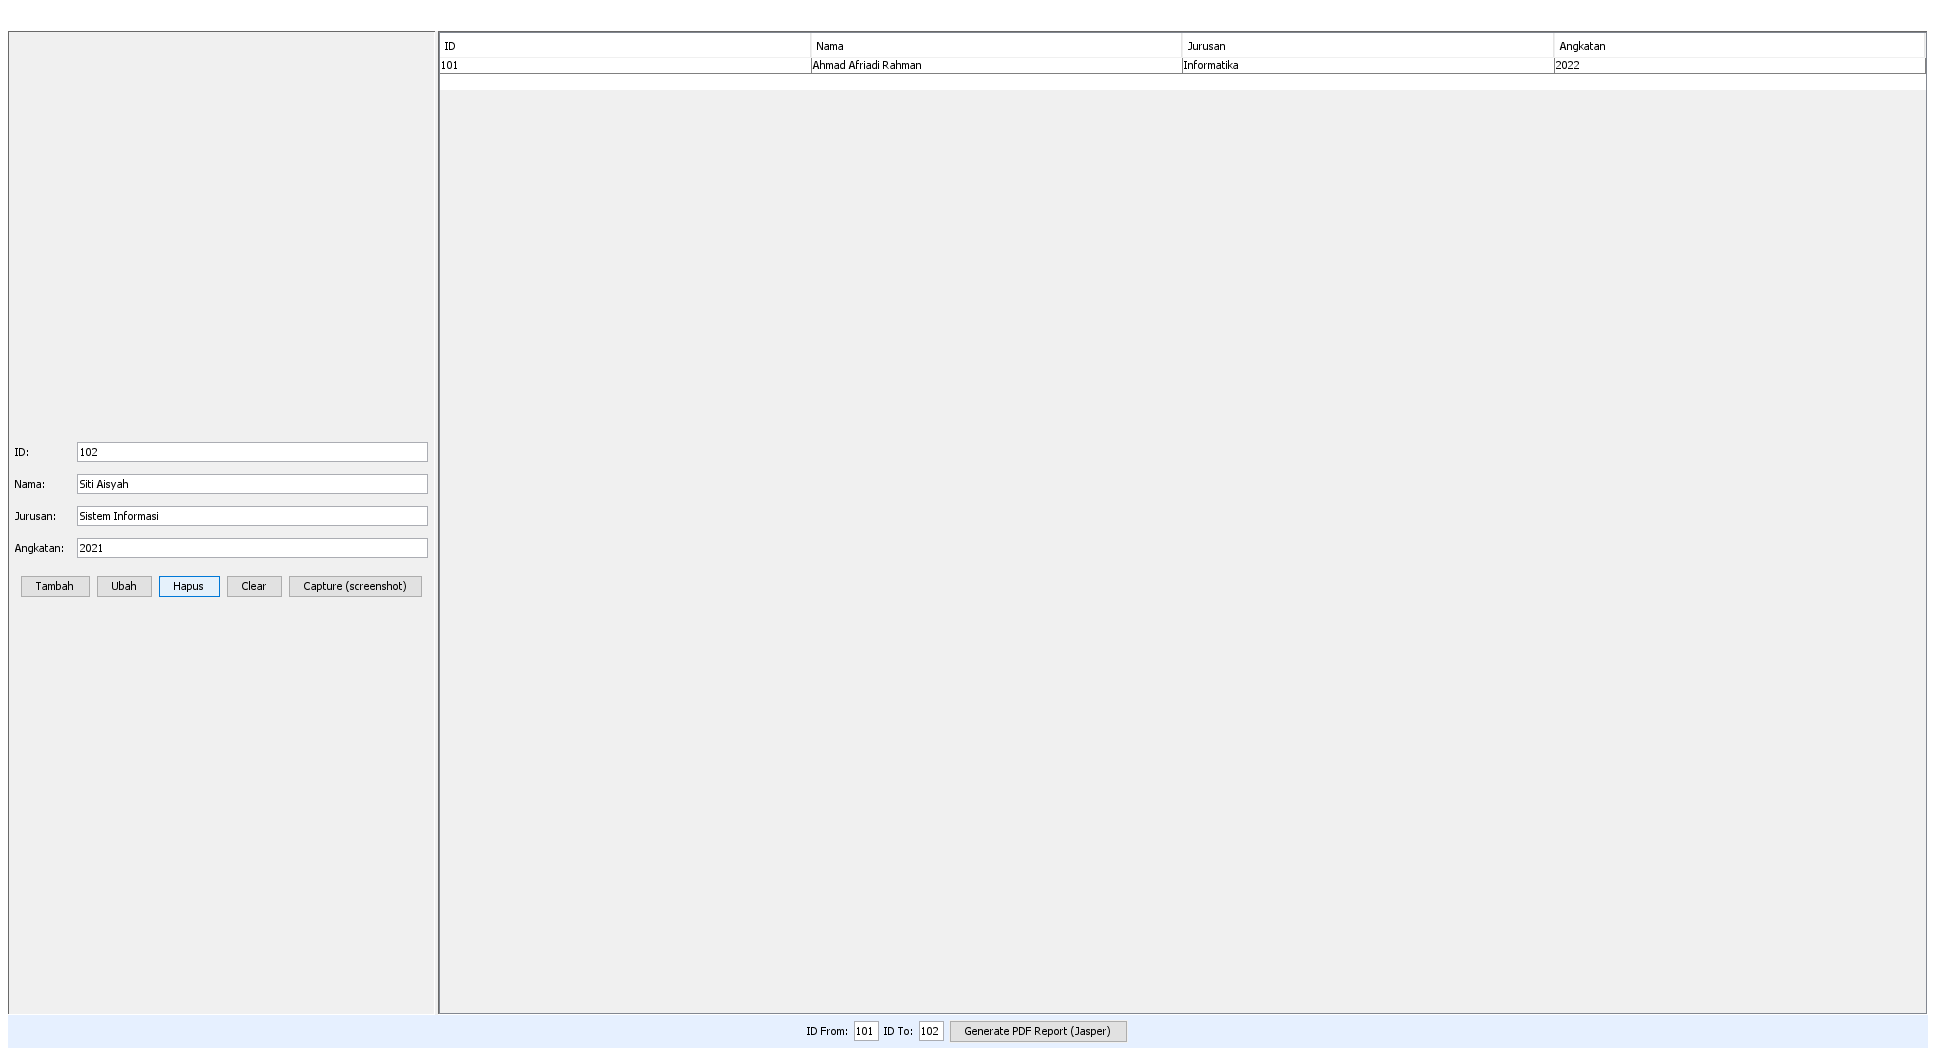
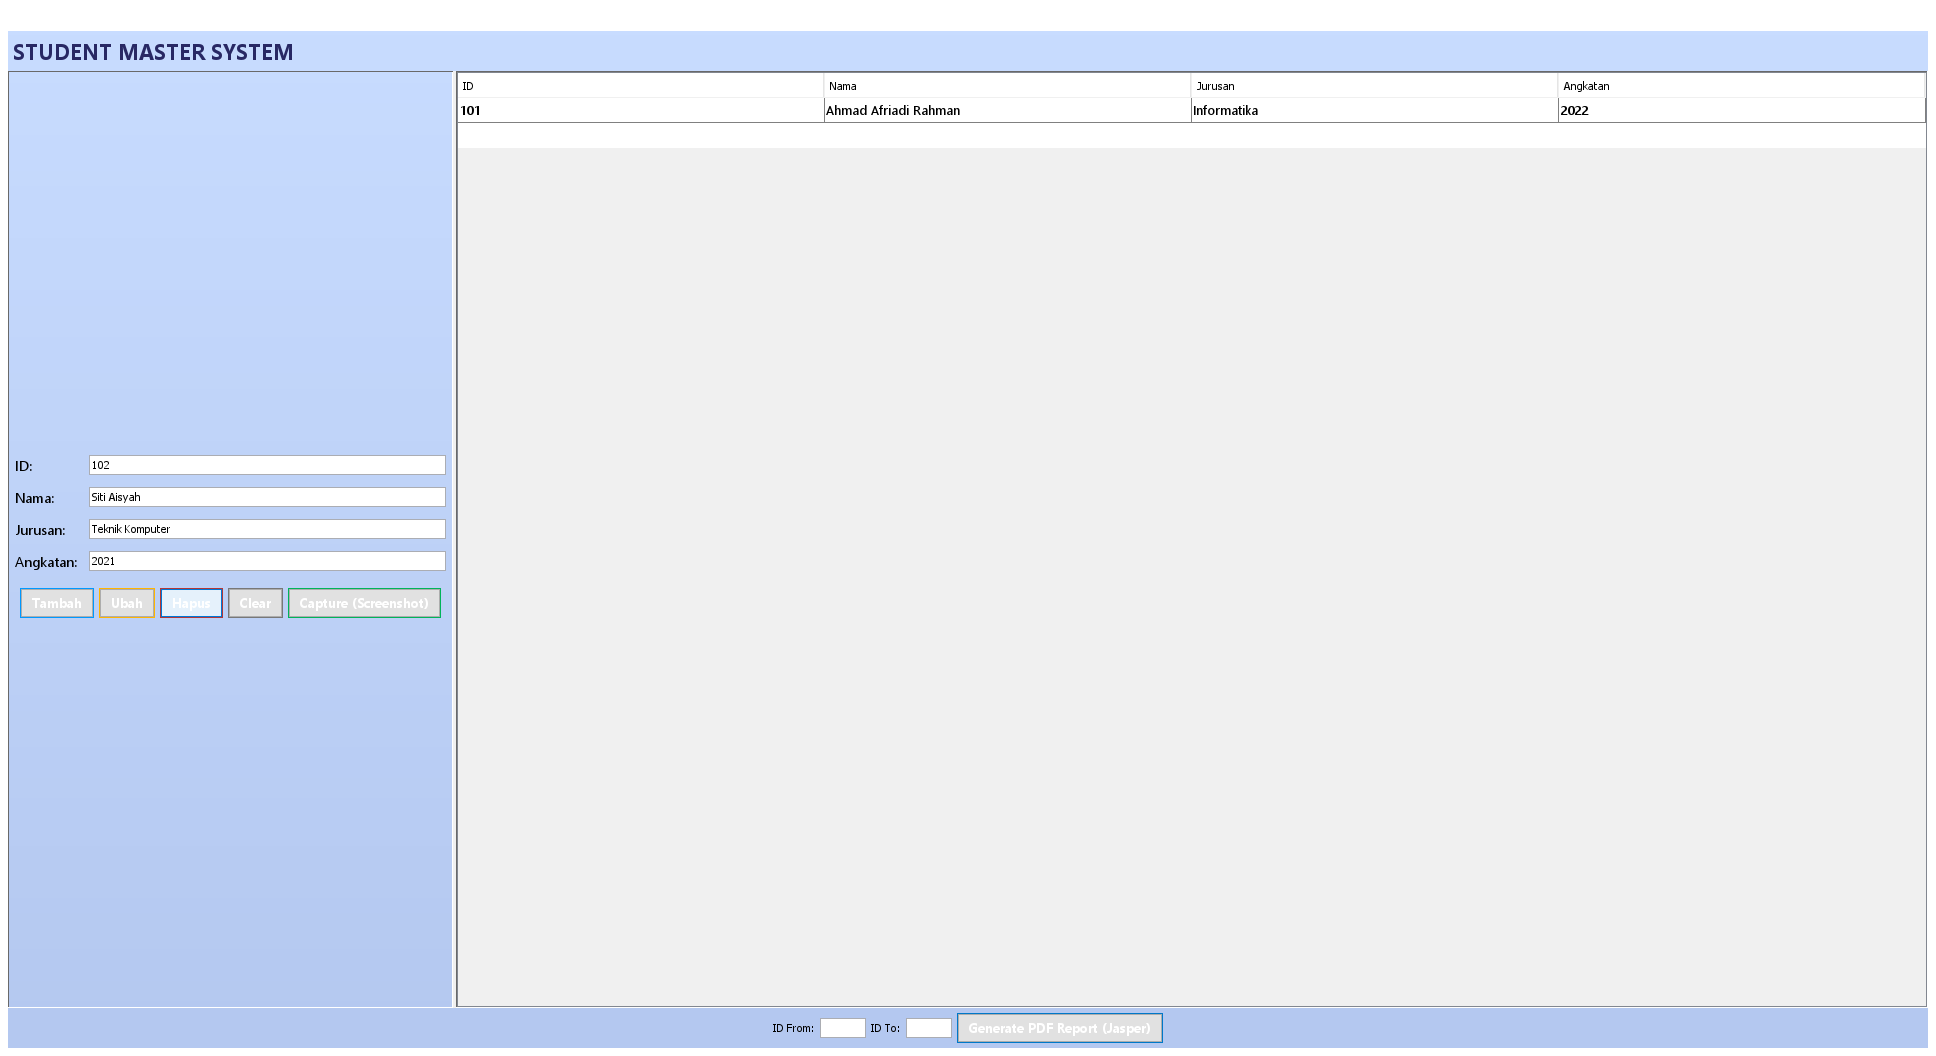
Code Update

Changed region(s): [[0.0, 0.0312, 1.0, 1.0]]

diff --git a/src/view/MainForm.java b/src/view/MainForm.java
@@ -11,7 +11,6 @@ import java.awt.*;
 import java.awt.event.*;
 import java.awt.image.BufferedImage;
 import java.io.File;
-import java.io.FileInputStream;
 import java.io.InputStream;
 import java.sql.SQLException;
 import java.util.List;
@@ -28,41 +27,27 @@ public class MainForm extends JFrame {
     private JTable table;
     private DefaultTableModel tableModel;
 
-    private JTextField tfIdFrom = new JTextField();
-    private JTextField tfIdTo = new JTextField();
+    private JTextField tfIdFrom = new JTextField(5);
+    private JTextField tfIdTo = new JTextField(5);
 
     private JPanel mainPanel;
 
     public MainForm() {
         setTitle("Student Master - UAS PBO");
         setDefaultCloseOperation(JFrame.EXIT_ON_CLOSE);
-        setSize(900, 600);
+        setSize(950, 600);
         setLocationRelativeTo(null);
 
+        // 🌈 Panel utama dengan gradasi
         mainPanel = new JPanel(new BorderLayout()) {
-            private BufferedImage bg;
-            {
-                try {
-                    bg = ImageIO.read(getClass().getResource("/report/logo.png")); // small logo as background example
-                } catch (Exception e) {
-                    bg = null;
-                }
-            }
             @Override
             protected void paintComponent(Graphics g) {
                 super.paintComponent(g);
-                if (bg != null) {
-                    // tile the background image
-                    for (int x = 0; x < getWidth(); x += bg.getWidth()) {
-                        for (int y = 0; y < getHeight(); y += bg.getHeight()) {
-                            g.drawImage(bg, x, y, this);
-                        }
-                    }
-                } else {
-                    // fallback background color
-                    g.setColor(new Color(230, 240, 255));
-                    g.fillRect(0, 0, getWidth(), getHeight());
-                }
+                Graphics2D g2d = (Graphics2D) g;
+                GradientPaint gp = new GradientPaint(0, 0, new Color(200, 220, 255),
+                        0, getHeight(), new Color(180, 200, 240));
+                g2d.setPaint(gp);
+                g2d.fillRect(0, 0, getWidth(), getHeight());
             }
         };
         setContentPane(mainPanel);
@@ -72,65 +57,96 @@ public class MainForm extends JFrame {
     }
 
     private void initComponents() {
+        // 🧭 Header panel (logo + judul)
+        JPanel headerPanel = new JPanel(new FlowLayout(FlowLayout.LEFT));
+        headerPanel.setOpaque(false);
+        try {
+            JLabel logo = new JLabel(new ImageIcon(getClass().getResource("/report/logo.png")));
+            headerPanel.add(logo);
+        } catch (Exception ignored) {}
+        JLabel title = new JLabel("STUDENT MASTER SYSTEM");
+        title.setFont(new Font("Segoe UI", Font.BOLD, 22));
+        title.setForeground(new Color(40, 40, 100));
+        headerPanel.add(title);
+        mainPanel.add(headerPanel, BorderLayout.NORTH);
+
+        // 📋 Form Panel
         JPanel formPanel = new JPanel(new GridBagLayout());
         formPanel.setOpaque(false);
         GridBagConstraints c = new GridBagConstraints();
-        c.insets = new Insets(6,6,6,6);
+        c.insets = new Insets(6, 6, 6, 6);
         c.fill = GridBagConstraints.HORIZONTAL;
 
-        c.gridx = 0; c.gridy = 0; formPanel.add(new JLabel("ID:"), c);
+        JLabel lblId = new JLabel("ID:");
+        JLabel lblNama = new JLabel("Nama:");
+        JLabel lblJurusan = new JLabel("Jurusan:");
+        JLabel lblAngkatan = new JLabel("Angkatan:");
+        lblId.setFont(new Font("Segoe UI", Font.PLAIN, 14));
+        lblNama.setFont(new Font("Segoe UI", Font.PLAIN, 14));
+        lblJurusan.setFont(new Font("Segoe UI", Font.PLAIN, 14));
+        lblAngkatan.setFont(new Font("Segoe UI", Font.PLAIN, 14));
+
+        c.gridx = 0; c.gridy = 0; formPanel.add(lblId, c);
         c.gridx = 1; c.gridy = 0; formPanel.add(tfId, c);
-
-        c.gridx = 0; c.gridy = 1; formPanel.add(new JLabel("Nama:"), c);
+        c.gridx = 0; c.gridy = 1; formPanel.add(lblNama, c);
         c.gridx = 1; c.gridy = 1; formPanel.add(tfNama, c);
-
-        c.gridx = 0; c.gridy = 2; formPanel.add(new JLabel("Jurusan:"), c);
+        c.gridx = 0; c.gridy = 2; formPanel.add(lblJurusan, c);
         c.gridx = 1; c.gridy = 2; formPanel.add(tfJurusan, c);
-
-        c.gridx = 0; c.gridy = 3; formPanel.add(new JLabel("Angkatan:"), c);
+        c.gridx = 0; c.gridy = 3; formPanel.add(lblAngkatan, c);
         c.gridx = 1; c.gridy = 3; formPanel.add(tfAngkatan, c);
 
-        JButton btnTambah = new JButton("Tambah");
-        JButton btnUbah = new JButton("Ubah");
-        JButton btnHapus = new JButton("Hapus");
-        JButton btnClear = new JButton("Clear");
-        JButton btnCapture = new JButton("Capture (screenshot)");
+        // 🎨 Tombol dengan gaya baru
+        JButton btnTambah = createStyledButton("Tambah", new Color(0, 153, 255));
+        JButton btnUbah = createStyledButton("Ubah", new Color(255, 180, 0));
+        JButton btnHapus = createStyledButton("Hapus", new Color(255, 80, 80));
+        JButton btnClear = createStyledButton("Clear", new Color(120, 120, 120));
+        JButton btnCapture = createStyledButton("Capture (Screenshot)", new Color(0, 180, 90));
 
         JPanel btnPanel = new JPanel();
         btnPanel.setOpaque(false);
-        btnPanel.add(btnTambah); btnPanel.add(btnUbah); btnPanel.add(btnHapus); btnPanel.add(btnClear); btnPanel.add(btnCapture);
+        btnPanel.add(btnTambah);
+        btnPanel.add(btnUbah);
+        btnPanel.add(btnHapus);
+        btnPanel.add(btnClear);
+        btnPanel.add(btnCapture);
 
         c.gridx = 0; c.gridy = 4; c.gridwidth = 2; formPanel.add(btnPanel, c);
 
-        // table
-        tableModel = new DefaultTableModel(new Object[]{"ID","Nama","Jurusan","Angkatan"}, 0) {
-            @Override public boolean isCellEditable(int row, int column){ return false; }
+        // 📊 Tabel
+        tableModel = new DefaultTableModel(new Object[]{"ID", "Nama", "Jurusan", "Angkatan"}, 0) {
+            @Override
+            public boolean isCellEditable(int row, int column) { return false; }
         };
         table = new JTable(tableModel);
+        table.setFont(new Font("Segoe UI", Font.PLAIN, 13));
+        table.setRowHeight(25);
         JScrollPane sp = new JScrollPane(table);
 
-        // report panel
+        // 🧾 Report panel
         JPanel reportPanel = new JPanel();
         reportPanel.setOpaque(false);
-        reportPanel.add(new JLabel("ID From:")); reportPanel.add(tfIdFrom);
-        reportPanel.add(new JLabel("ID To:")); reportPanel.add(tfIdTo);
-        JButton btnPrint = new JButton("Generate PDF Report (Jasper)");
+        reportPanel.add(new JLabel("ID From:"));
+        reportPanel.add(tfIdFrom);
+        reportPanel.add(new JLabel("ID To:"));
+        reportPanel.add(tfIdTo);
+        JButton btnPrint = createStyledButton("Generate PDF Report (Jasper)", new Color(0, 120, 200));
         reportPanel.add(btnPrint);
 
         JSplitPane split = new JSplitPane(JSplitPane.HORIZONTAL_SPLIT, formPanel, sp);
-        split.setDividerLocation(320);
+        split.setDividerLocation(350);
+        split.setOpaque(false);
 
         add(split, BorderLayout.CENTER);
         add(reportPanel, BorderLayout.SOUTH);
 
-        // action listeners
+        // 🧩 Listener tombol
         btnTambah.addActionListener(e -> tambahAction());
         btnUbah.addActionListener(e -> ubahAction());
         btnHapus.addActionListener(e -> hapusAction());
         btnClear.addActionListener(e -> clearForm());
         btnCapture.addActionListener(e -> {
             captureComponent(this, "captures/action_capture.png");
-            JOptionPane.showMessageDialog(this, "Screenshot saved to captures/action_capture.png");
+            JOptionPane.showMessageDialog(this, "Screenshot tersimpan di captures/action_capture.png");
         });
 
         table.addMouseListener(new MouseAdapter() {
@@ -138,14 +154,14 @@ public class MainForm extends JFrame {
             public void mouseClicked(MouseEvent e) {
                 int r = table.getSelectedRow();
                 if (r >= 0) {
-                    tfId.setText(tableModel.getValueAt(r,0).toString());
-                    tfNama.setText(tableModel.getValueAt(r,1).toString());
-                    tfJurusan.setText(tableModel.getValueAt(r,2).toString());
-                    tfAngkatan.setText(tableModel.getValueAt(r,3).toString());
+                    tfId.setText(tableModel.getValueAt(r, 0).toString());
+                    tfNama.setText(tableModel.getValueAt(r, 1).toString());
+                    tfJurusan.setText(tableModel.getValueAt(r, 2).toString());
+                    tfAngkatan.setText(tableModel.getValueAt(r, 3).toString());
 
-                    // change background color randomly to ensure not the same UI for each mahasiswa
+                    // Ganti warna background tiap mahasiswa
                     Random rnd = new Random(Integer.parseInt(tfId.getText()));
-                    mainPanel.setBackground(new Color(150 + rnd.nextInt(100), 150 + rnd.nextInt(100), 150 + rnd.nextInt(100)));
+                    mainPanel.setBackground(new Color(180 + rnd.nextInt(50), 180 + rnd.nextInt(50), 255));
                 }
             }
         });
@@ -159,24 +175,44 @@ public class MainForm extends JFrame {
                     JOptionPane.showMessageDialog(this, "Tidak ada data pada rentang ID tersebut.");
                     return;
                 }
-                // generate report
+
                 InputStream logoStream = getClass().getResourceAsStream("/report/logo.png");
                 File outDir = new File("reports");
                 outDir.mkdirs();
                 String outputPath = "reports/mahasiswa_report_" + from + "_" + to + ".pdf";
                 ReportGenerator.generateReport(data, from, to, logoStream, outputPath);
 
-                // capture report button click
                 captureComponent(this, "captures/report_capture.png");
-
                 JOptionPane.showMessageDialog(this, "Report berhasil dibuat: " + outputPath);
-            } catch (NumberFormatException ex) {
-                JOptionPane.showMessageDialog(this, "Masukkan ID From/To yang valid (integer).");
             } catch (Exception ex) {
                 ex.printStackTrace();
                 JOptionPane.showMessageDialog(this, "Gagal membuat report: " + ex.getMessage());
             }
         });
+    }
+
+    // 🌟 Utility buat tombol keren
+    private JButton createStyledButton(String text, Color baseColor) {
+        JButton btn = new JButton(text);
+        btn.setFont(new Font("Segoe UI", Font.BOLD, 13));
+        btn.setForeground(Color.WHITE);
+        btn.setBackground(baseColor);
+        btn.setFocusPainted(false);
+        btn.setBorder(BorderFactory.createEmptyBorder(6, 12, 6, 12));
+        btn.setCursor(Cursor.getPredefinedCursor(Cursor.HAND_CURSOR));
+
+        // efek hover
+        btn.addMouseListener(new MouseAdapter() {
+            @Override
+            public void mouseEntered(MouseEvent e) {
+                btn.setBackground(baseColor.darker());
+            }
+            @Override
+            public void mouseExited(MouseEvent e) {
+                btn.setBackground(baseColor);
+            }
+        });
+        return btn;
     }
 
     private void tambahAction() {
@@ -189,7 +225,6 @@ public class MainForm extends JFrame {
                 JOptionPane.showMessageDialog(this, "Data berhasil ditambahkan.");
             }
         } catch (Exception ex) {
-            ex.printStackTrace();
             JOptionPane.showMessageDialog(this, "Gagal tambah: " + ex.getMessage());
         }
     }
@@ -206,7 +241,6 @@ public class MainForm extends JFrame {
                 JOptionPane.showMessageDialog(this, "Data gagal diubah atau ID tidak ditemukan.");
             }
         } catch (Exception ex) {
-            ex.printStackTrace();
             JOptionPane.showMessageDialog(this, "Gagal ubah: " + ex.getMessage());
         }
     }
@@ -214,18 +248,15 @@ public class MainForm extends JFrame {
     private void hapusAction() {
         try {
             int id = Integer.parseInt(tfId.getText().trim());
-            int ok = JOptionPane.showConfirmDialog(this, "Hapus data ID " + id + "?", "Confirm", JOptionPane.YES_NO_OPTION);
+            int ok = JOptionPane.showConfirmDialog(this, "Hapus data ID " + id + "?", "Konfirmasi", JOptionPane.YES_NO_OPTION);
             if (ok == JOptionPane.YES_OPTION) {
                 if (controller.hapus(id)) {
                     loadTable();
                     captureComponent(this, "captures/delete.png");
                     JOptionPane.showMessageDialog(this, "Data berhasil dihapus.");
-                } else {
-                    JOptionPane.showMessageDialog(this, "Gagal menghapus. ID mungkin tidak ada.");
                 }
             }
         } catch (Exception ex) {
-            ex.printStackTrace();
             JOptionPane.showMessageDialog(this, "Gagal hapus: " + ex.getMessage());
         }
     }
@@ -238,13 +269,15 @@ public class MainForm extends JFrame {
                 tableModel.addRow(new Object[]{m.getId(), m.getNama(), m.getJurusan(), m.getAngkatan()});
             }
         } catch (SQLException ex) {
-            ex.printStackTrace();
             JOptionPane.showMessageDialog(this, "Gagal load data: " + ex.getMessage());
         }
     }
 
     private void clearForm() {
-        tfId.setText(""); tfNama.setText(""); tfJurusan.setText(""); tfAngkatan.setText("");
+        tfId.setText("");
+        tfNama.setText("");
+        tfJurusan.setText("");
+        tfAngkatan.setText("");
     }
 
     private void captureComponent(Component c, String path) {
@@ -261,12 +294,8 @@ public class MainForm extends JFrame {
 
     public static void main(String[] args) {
         SwingUtilities.invokeLater(() -> {
-            try {
-                // set look and feel system
-                UIManager.setLookAndFeel(UIManager.getSystemLookAndFeelClassName());
-            } catch (Exception ignore) {}
-            MainForm mf = new MainForm();
-            mf.setVisible(true);
+            try { UIManager.setLookAndFeel(UIManager.getSystemLookAndFeelClassName()); } catch (Exception ignored) {}
+            new MainForm().setVisible(true);
         });
     }
 }
